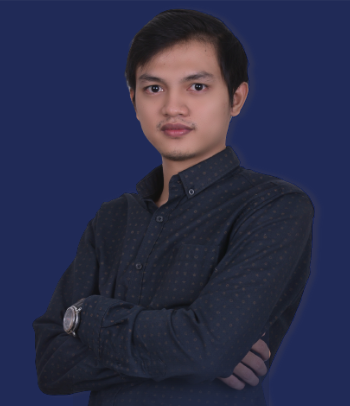
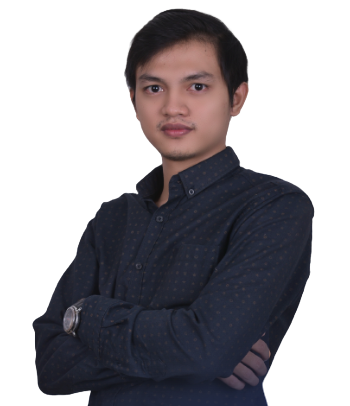
submission web : portfolio

diff --git a/submission/index.html b/submission/index.html
@@ -22,7 +22,6 @@
                 <li><a href="#about">About Me</a></li>
                 <li><a href="#skills">Skills</a></li>
                 <li><a href="#portfolio">Portfolio</a></li>
-                <li><a href="#article">Article</a></li>
                 <li><a href="#contact">Contact</a></li>
             </ul>
         </nav>
@@ -30,13 +29,25 @@
 
     <main>
         <div id="content">
-            <article class="card">
+            <article id="portfolio" class="card">
                 <h2>Portfolio</h2>
+                <div class="wrapper">
+                    <section class="card card-porto">
+                        <h3>Web Kota Bandung</h3>
+                        <img src="./assets/image/kota-bandung.png" alt="Web Kota Bandung">
+                        <a href="../html-css/index.html" class="stretched-link"></a>
+                    </section>
+                    <section class="card card-porto">
+                        <h3>Web Calculator</h3>
+                        <img src="./assets/image/web-calculator.png" alt="Web Calculator">
+                        <a href="../flexbox-js/index.html" class="stretched-link"></a>
+                    </section>
+                </div>
             </article>
 
             <article id="skills" class="card">
                 <h2>Skills</h2>
-                <section id="sectionSkills"></section>
+                <div class="wrapper"></div>
             </article>
 
             <article id="contact" class="card">
@@ -67,7 +78,7 @@
                     <h2>About Me</h2>
                     <p>Front End Developer</p>
                     <figure>
-                        <img src="assets/image/profile-removebg.png">
+                        <img src="assets/image/profile.png">
                         <figcaption>Abu Abdirohman</figcaption>
                     </figure>
                 </header>

diff --git a/submission/assets/styles/main.css b/submission/assets/styles/main.css
@@ -8,21 +8,38 @@ main {
     width: 65%;
 }
 
-/* Skills */
-#skills .card-skill {
-    text-align: center;
-    padding: 1rem 3rem 0;
-    margin-right: 1rem;
-    flex: 0 0 calc(100%/4);
+/* Portfolio */
+#portfolio .wrapper {
+    display: flex;
+    justify-content: space-evenly;
+    padding-left: 2rem;
 }
 
-#sectionSkills {
+#portfolio .wrapper .card-porto {
+    position: relative;
+    box-shadow: 0 4px 2px 0 rgba(0, 0, 0, 0.2);
+}
+
+#portfolio .wrapper .stretched-link {
+    position: absolute;
+    top: 0;
+    right: 0;
+    bottom: 0;
+    left: 0;
+}
+
+/* Skills */
+#skills .wrapper {
     display: flex;
     flex-wrap: wrap;
     justify-content: space-evenly;
-    overflow: hidden;
-    padding-bottom: 1rem;
-    padding-left: .1rem;
+}
+
+#skills .card-skill {
+    text-align: center;
+    padding: 1rem 3rem .1rem;
+    margin-right: 1rem;
+    flex: 0 0 calc(100%/4);
 }
 
 /* Contact */

diff --git a/submission/app.js b/submission/app.js
@@ -26,18 +26,18 @@ let listSkills = [
   ];
   
   listSkills.forEach((skill) => {
-    let sectionSkills = document.getElementById("sectionSkills");
-  
+    let skillsWrapper = document.querySelector("#skills .wrapper");
     let img = document.createElement("img");
     img.src = skill.src;
+    img.alt = skill.name;
   
     let p = document.createElement("p");
     p.appendChild(document.createTextNode(skill.name));
   
-    let div = document.createElement("div");
-    div.setAttribute("class", "card card-skill");
-    div.appendChild(img);
-    div.appendChild(p);
+    let section = document.createElement("section");
+    section.setAttribute("class", "card card-skill");
+    section.appendChild(img);
+    section.appendChild(p);
   
-    sectionSkills.appendChild(div);
+    skillsWrapper.appendChild(section);
   });

diff --git a/submission/assets/styles/aside.css b/submission/assets/styles/aside.css
@@ -5,6 +5,10 @@ aside {
     color: var(--secondary);;
 }
 
+aside h2 {
+    color: var(--primary);
+}
+
 .profile header,
 .profile section {
     text-align: center;
@@ -24,4 +28,9 @@ aside {
 
 .profile table tr td {
     padding-left: 1.5rem;
+    text-decoration: none;
+}
+.profile table tr td a {
+    text-decoration: none;
+    color: var(--primary);
 }

diff --git a/submission/assets/styles/root.css b/submission/assets/styles/root.css
@@ -31,6 +31,7 @@ h3 {
     border-radius: 5px;
     padding: 20px;
     margin-top: 20px;
+    padding-bottom: 2rem;
 }
 
 .container {
